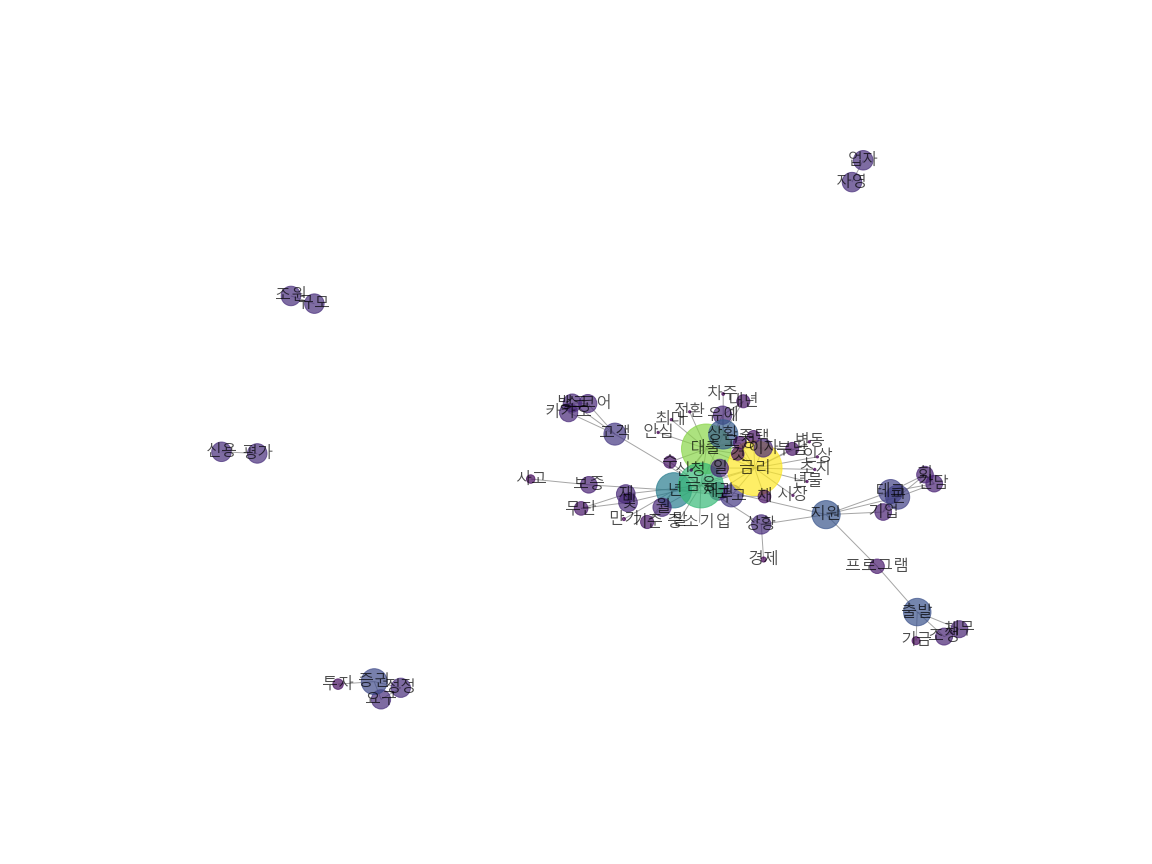
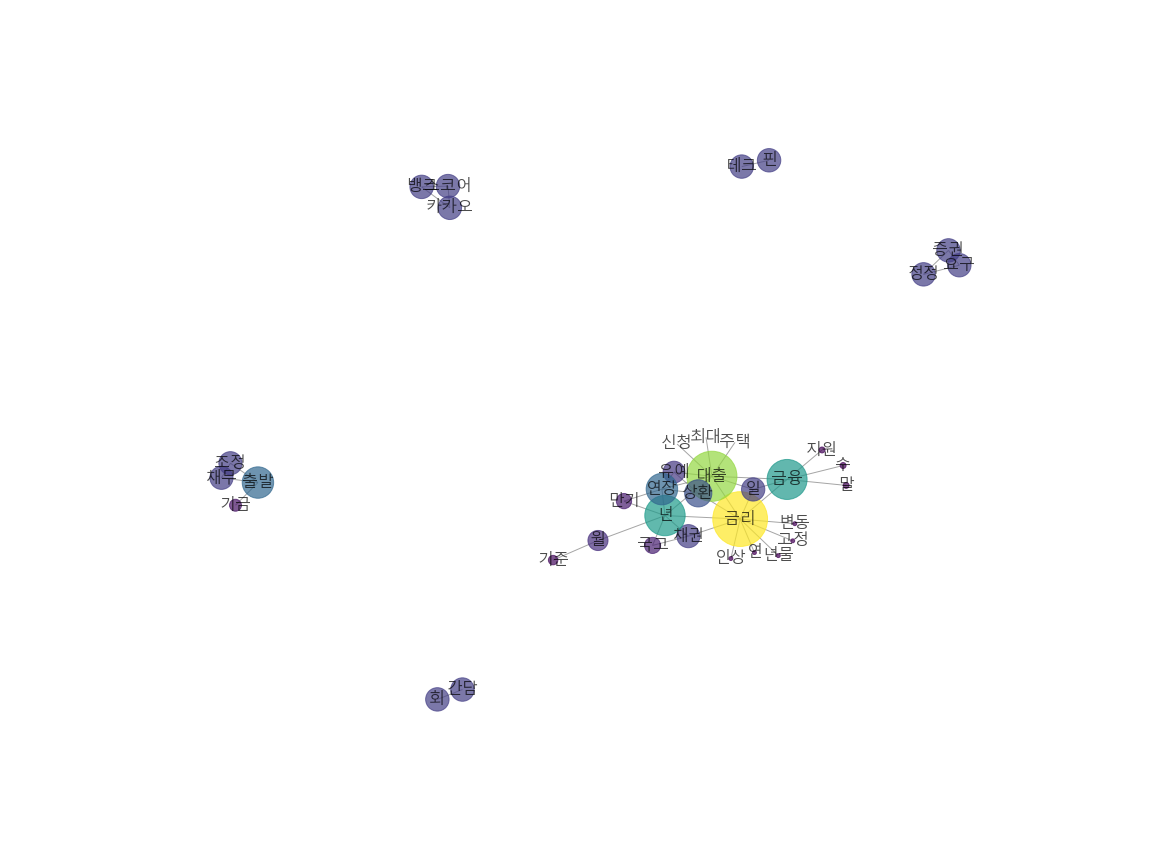
이슈트랜드 수정

diff --git a/renewKDI/src/main/resources/templates/board/bigdata/issuetrend_list.html b/renewKDI/src/main/resources/templates/board/bigdata/issuetrend_list.html
@@ -71,8 +71,28 @@ layout:decorate="~{layouts/board}">
         .col {
             text-align: center;
         }
+        .container2{
+     height:1800px;
+        }
+        .image{
+        margin-top:100px;
+        margin-bottom:50px;
+       
+        }
         
+        .image2{
+        margin-top:100px;
+        margin-bottom:150px;
+        }
+        .econtent{
+        position:relative;
+        }
+        .tab-pane{
+        position:absolute;
+        margin-bottom:auto;
+        }
     </style>
+
 </head>
 
 <body>
@@ -148,18 +168,30 @@ layout:decorate="~{layouts/board}">
                     </ul>
                     
                     <div class="tab-content">
+                   
                         <div class="tab-pane fade in active" id="economy">
-                        <div>
-                        <img th:src="@{/images/경제.png}" width="850px" height="500px">
-                         </div>
-                          <div>
-                        <img th:src="@{/images/경제.png}" width="850px" height="500px">
-                         </div>
-                          <div>
-                        <img th:src="@{/images/경제.png}" width="850px" height="500px">
-                         </div>
+                           <ul class="nav nav-tabs">
+                              <li class="active"><a href="#emonth" data-toggle="tab">월별 트랜드 분석</a></li>
+                                 <li><a href="#eyear" data-toggle="tab">연간 트랜드 분석</a></li>
+                                 </ul>
+                         <div class="econtent">
+                       <div class="tab-pane fade in active" id="emonth">
+                        <img class="image" th:src="@{/images/bigdata/경제빈도수그래프.png}" width="800px" height="500px">
+                            <img class="image" th:src="@{/images/bigdata/경제월간트랜드.png}" width="800px" height="250px">
+                            <img class="image" th:src="@{/images/bigdata/경제연관어분석.png}" width="800px" height="500px">
+                         
+                             
+                     
+                     </div>
                     
-                       
+                     
+                           
+                            <div class="tab-pane fade" id="eyear">
+                        <img class="image2" th:src="@{/images/bigdata/경제이슈타임라인.png}" width="850px" height="500px">
+                         <img class="image2" th:src="@{/images/bigdata/경제연간트랜드.png}" width="850px" height="350px">
+                         </div>
+                        </div>
+                        
                         </div>
                         
                         
@@ -226,7 +258,7 @@ layout:decorate="~{layouts/board}">
 						</div>
                         </div>
                         
-                           <div class="tab-pane fade in active" id="money">
+                           <div class="tab-pane fade" id="money">
                            <div>
                         <img th:src="@{/images/금융.png}" width="850px" height="500px">
                         </div>

diff --git a/renewKDI/src/main/resources/static/assets/css/main.css b/renewKDI/src/main/resources/static/assets/css/main.css
@@ -128,7 +128,7 @@ section {
     margin: 0 auto;
     margin-top: 80px;
     padding: 10PX;
-    width: 1000px
+    width: 1000px;
 }
 
 .search-txt {
@@ -137,13 +137,22 @@ section {
     margin: 10px -30px 30px 120px;
     border-radius: 40px;
     text-indent: 20px;
+    position:relative;
 }
 
 .search-btn {
     position: relative;
     width: 30px;
     height: 20px;
-
+   
+}
+.search-btn button{
+	
+	 border:none;
+	 background:white;
+	 position:relative;
+	 
+	
 }
 
 
@@ -153,7 +162,7 @@ section {
     height: 30px;
     margin: 30px;
     margin-top: 40px;
-    border: 0 none;
+    border:  none;
     border-radius: 20px;
     background: #0c3254;
     color: #fff;
@@ -162,14 +171,12 @@ section {
 
 .offcanvas-top{
     height: 600px;
-    transition-timing-function: 10s;
 }
 .offcanvas-top.show {
     height: 600px;
-    
-
 
 }
+.offcanvas-vertical-height:         80vh;
 
 .offcanvas-header {
     margin: 10px;
@@ -508,7 +515,7 @@ ul {
     width: 100%;
     position: relative;
     background: white;
-    margin: 0 auto;
+    margin: auto;
 }
 
 @media (min-width: 1365px) {
@@ -587,5 +594,6 @@ ul {
 .hero .icon-box:hover .icon {
     color: #fff;
 }
+
 
 

diff --git a/renewKDI/src/main/resources/templates/board/publishment/Expert_write.html b/renewKDI/src/main/resources/templates/board/publishment/Expert_write.html
@@ -129,7 +129,7 @@ layout:decorate="~{layouts/board3}">
 
          <div class="mb-3"  >
             <label class="form-label">내용</label>
-            <textarea class="form-control" name="content" id="summernote">
+            <textarea class="form-control" name="content">
             </textarea>
          </div>
         

diff --git a/renewKDI/src/main/resources/static/assets/css/layout.css b/renewKDI/src/main/resources/static/assets/css/layout.css
@@ -8,6 +8,8 @@
 .content{
 	margin:0 40px;
 	width:100%;
+	position:relative;
+	height:auto;
 }
 
   .col-xl-10{
@@ -16,4 +18,5 @@
 
 .footer{
 	margin:0;
+	position:relative;
 }

diff --git a/renewKDI/src/main/resources/static/assets/css/footer.css b/renewKDI/src/main/resources/static/assets/css/footer.css
@@ -8,7 +8,7 @@ a{text-decoration: none}
   font-size: 14px;
   background-color: #dedddd;
   padding: 50px 0;
- 
+
 }
 .footer .footer-info{
     border: 1px #323232;
